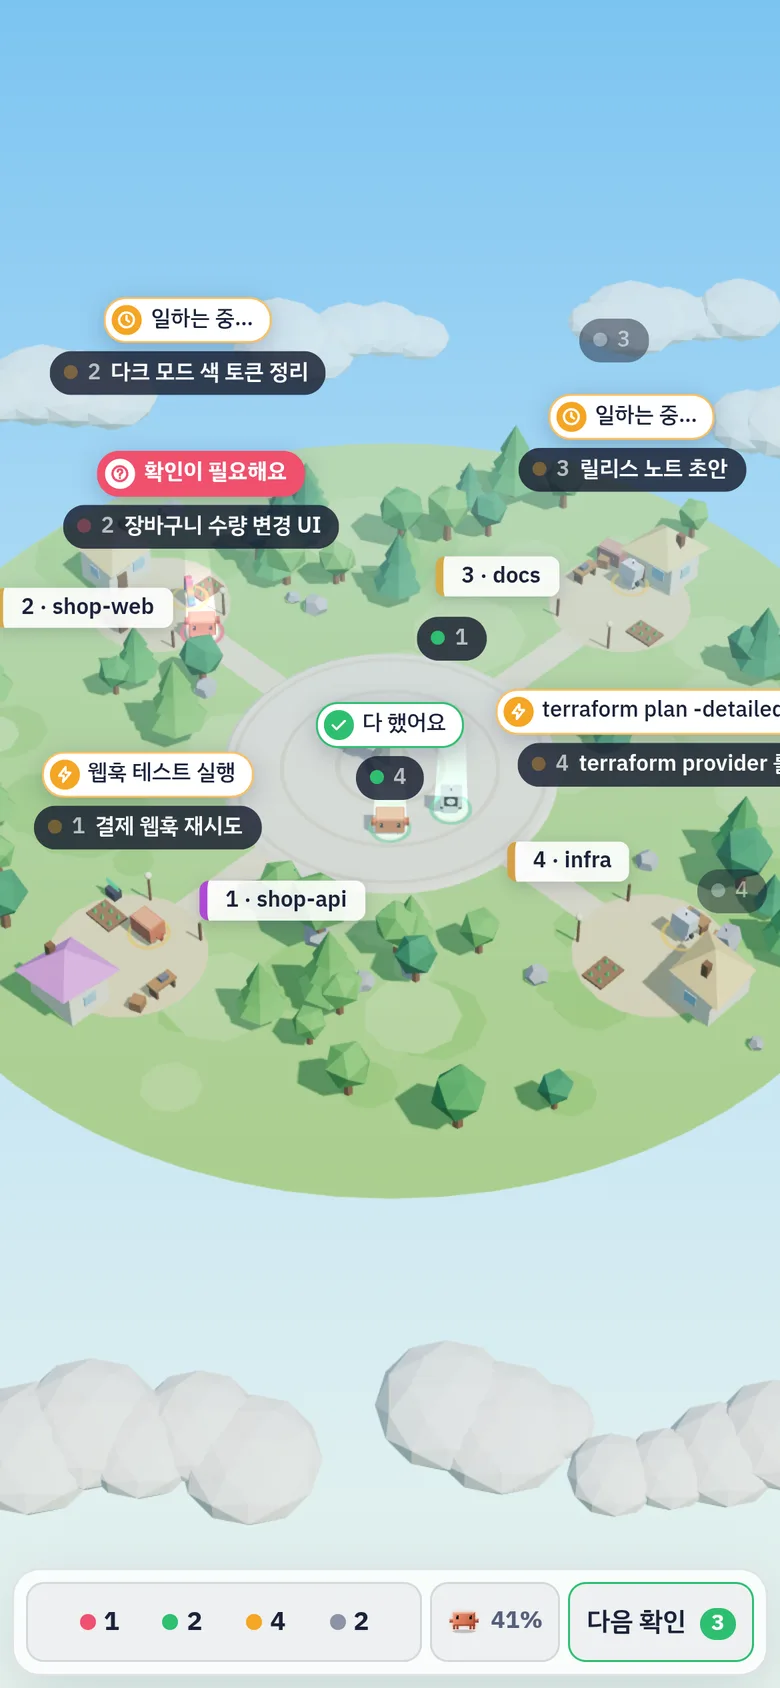
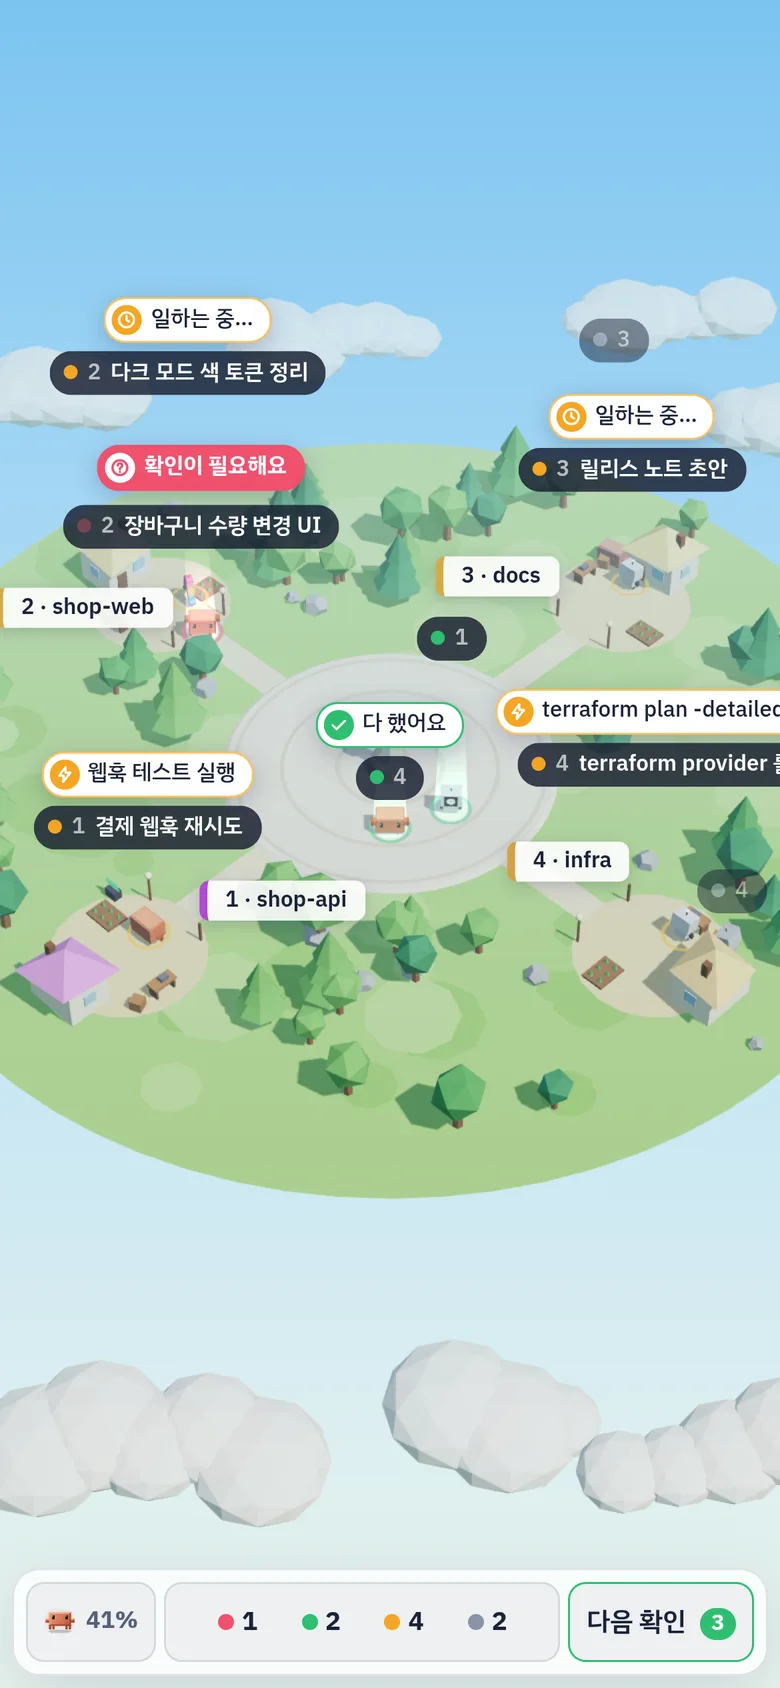
휴대폰 아래 막대의 순서가 사용량 · 상태 숫자 · 다음 확인으로 바뀐다 — 목록을 여는 상태 숫자가 가운데로 와, 오른손으로 쥔 넓은 휴대폰에서도 엄지가 닿는다

diff --git a/web/style.css b/web/style.css
@@ -3780,7 +3780,8 @@ dialog.dlg .warn {
   }
 
   /*
-   * 막대는 화면 아래, 엄지가 닿는 자리에 선다. 늘 보이는 것은 한 줄 — 상태 숫자(목록을 여닫는 단추)·사용량·다음 확인.
+   * 막대는 화면 아래, 엄지가 닿는 자리에 선다. 늘 보이는 것은 한 줄 — 사용량·상태 숫자(목록을 여닫는 단추)·다음 확인.
+   * 자주 누르는 둘(상태 숫자·다음 확인)이 가운데와 오른쪽이다 — 오른손으로 쥔 넓은 휴대폰에서 왼쪽 끝은 엄지에 멀다.
    * 목록 서랍을 열면 그 위에 덜 쓰는 단추 줄(집 짓기·전체 보기·알림·말·테마·홈)이 함께 나타난다.
    * 서랍이 막대 바로 위에 붙어야 하므로 막대의 높이를 여기서 정한다: 단추 높이 × 줄 수 + 줄 사이 + 안쪽 여백·테두리.
    */
@@ -3827,7 +3828,7 @@ dialog.dlg .warn {
    * 묶음이 남는 폭을 고르게 나눠 쓰게 해, 넷이 모두 두 자리여도 360px 폭에 들어간다.
    */
   #chips {
-    order: 1;
+    order: 2;
     flex: 1 1 0;
     min-width: 0;
     align-items: center;
@@ -3856,7 +3857,7 @@ dialog.dlg .warn {
   }
 
   #btn-usage {
-    order: 2;
+    order: 1;
   }
 
   #btn-next {

diff --git a/README.en.md b/README.en.md
@@ -49,7 +49,7 @@ opening `?lang=en`, or by setting `AGENT_WORLD_LANG=en`.
 
 <img src="docs/img/terminal.webp" alt="The terminal opened large, showing the agent's screen with its colours; keystrokes go straight to the pane" width="960">
 
-On a narrow screen such as a phone, the bar moves to the bottom, within reach of your thumb: the status counts, usage
+On a narrow screen such as a phone, the bar moves to the bottom, within reach of your thumb: usage, the status counts
 and `Next up` sit in one row. Tap the status counts and the list comes up as a drawer, with the less-used buttons
 (new house, bell, language, theme, home) in a row above the bar. The status window and terminal
 use the whole screen. On touch devices the terminal shows a row of keys the on-screen keyboard lacks (Esc, Tab,
